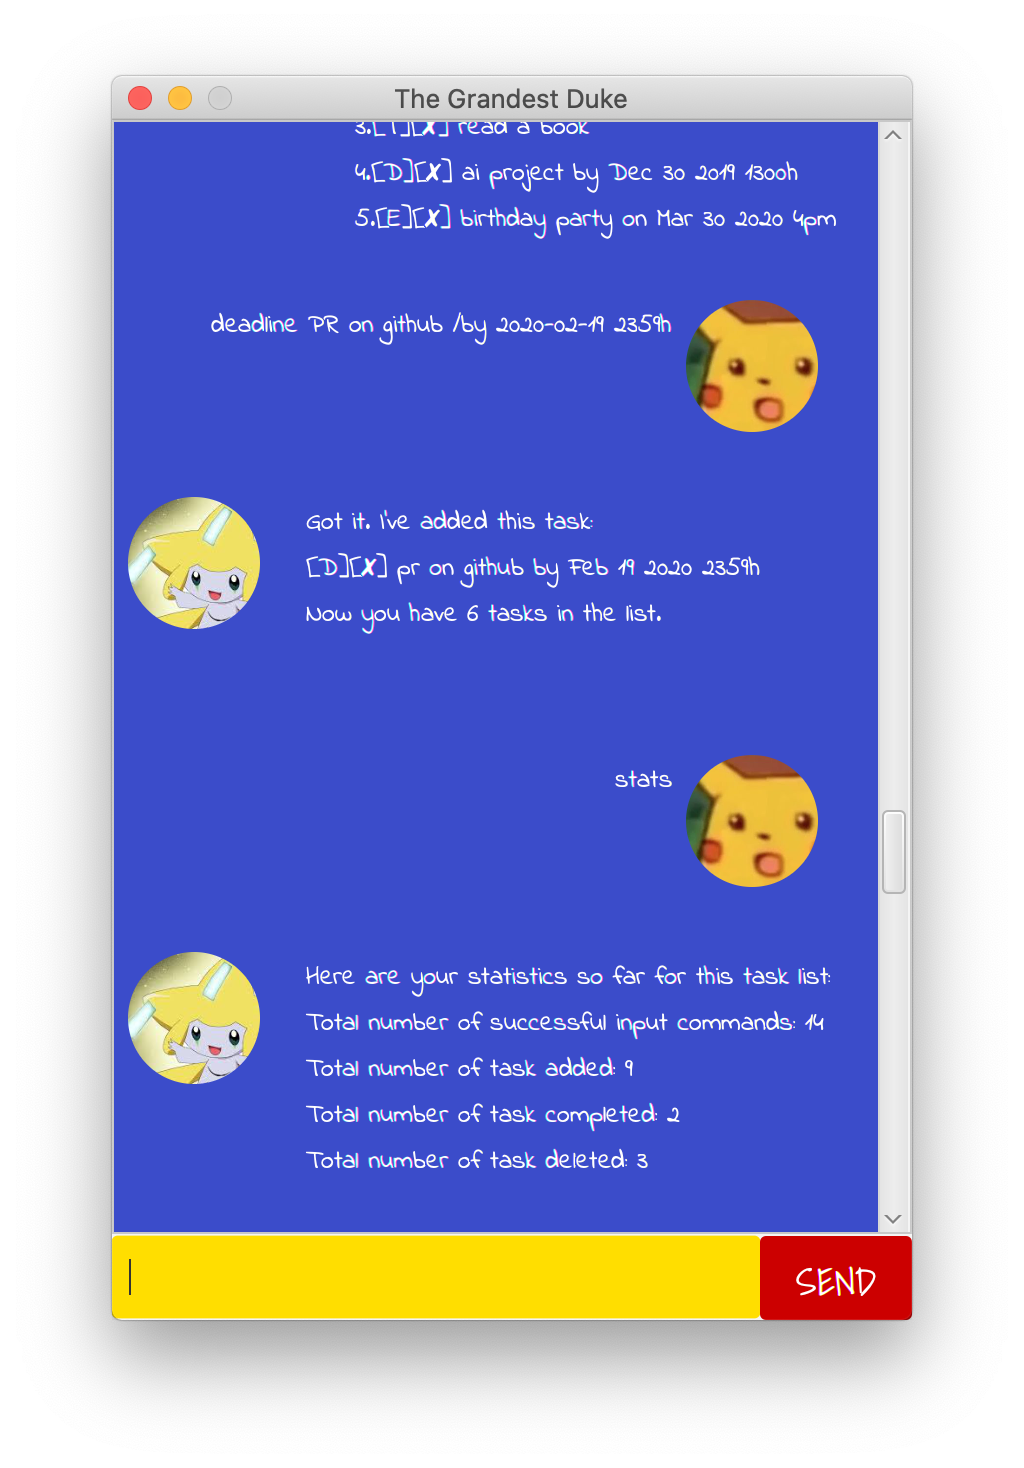
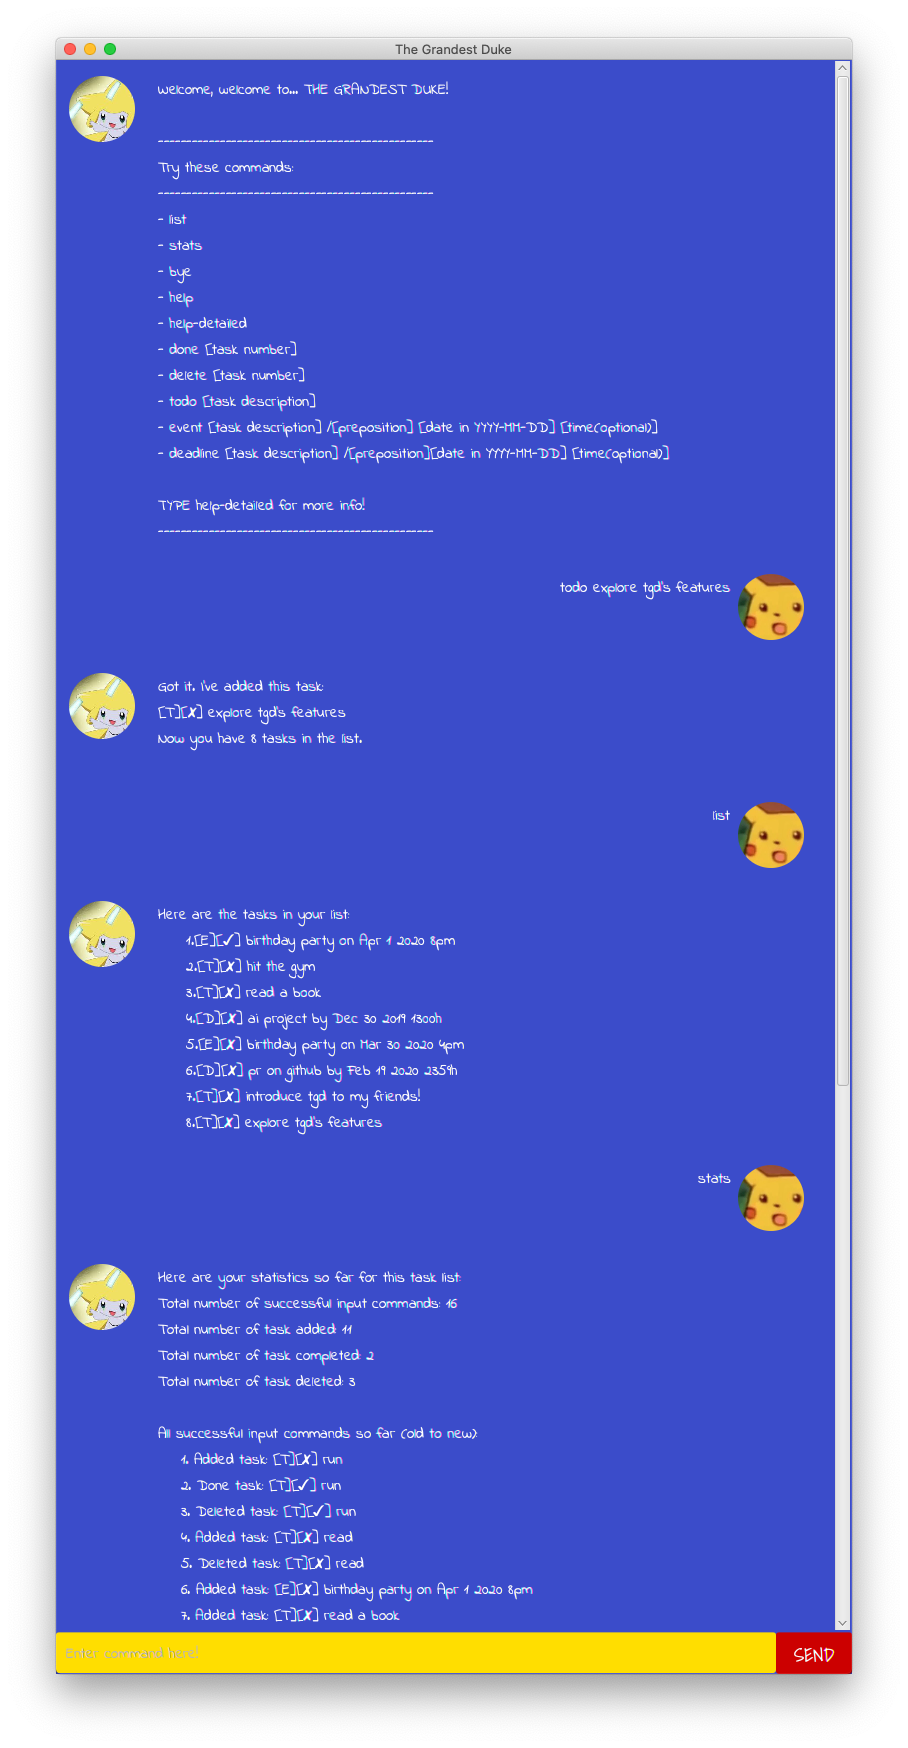
Allow resizable window

diff --git a/src/main/java/Duke/Main.java b/src/main/java/Duke/Main.java
@@ -26,7 +26,7 @@ public class Main extends Application {
             stage.setScene(scene);
             fxmlLoader.<MainWindow>getController().setDuke(duke);
             stage.setTitle("The Grandest Duke");
-            stage.resizableProperty().setValue(false);
+//            stage.resizableProperty().setValue(false);
             stage.setOnCloseRequest(new EventHandler<WindowEvent>() {
                 public void handle(WindowEvent event) {
                     event.consume();
